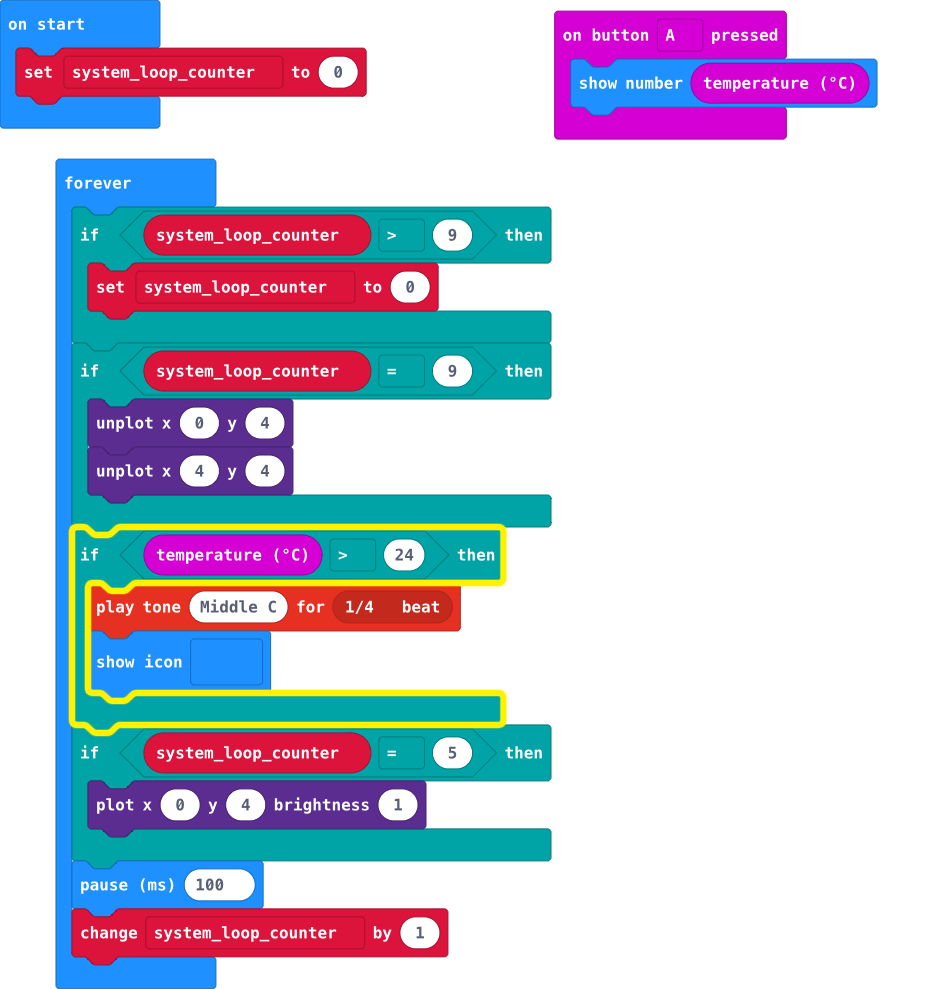
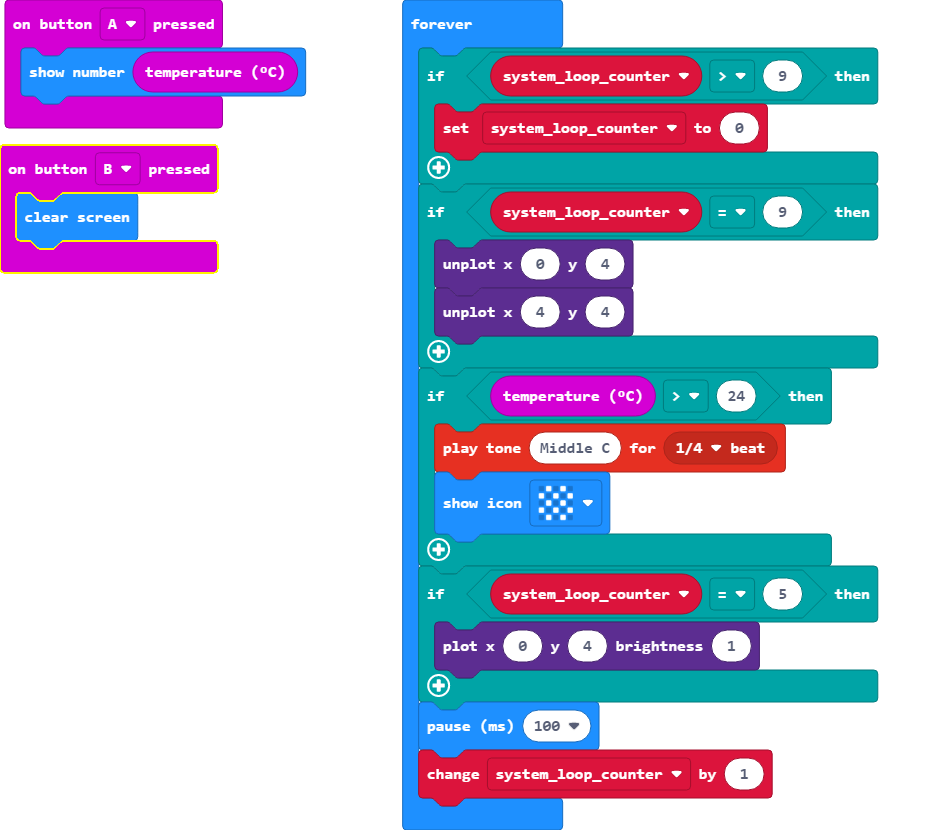
Update main.blocks, main.ts

diff --git a/main.ts b/main.ts
@@ -1,7 +1,10 @@
+let system_loop_counter = 0
 input.onButtonPressed(Button.A, function () {
     basic.showNumber(input.temperature())
 })
-let system_loop_counter = 0
+input.onButtonPressed(Button.B, function () {
+    basic.clearScreen()
+})
 basic.forever(function () {
     if (system_loop_counter > 9) {
         system_loop_counter = 0
